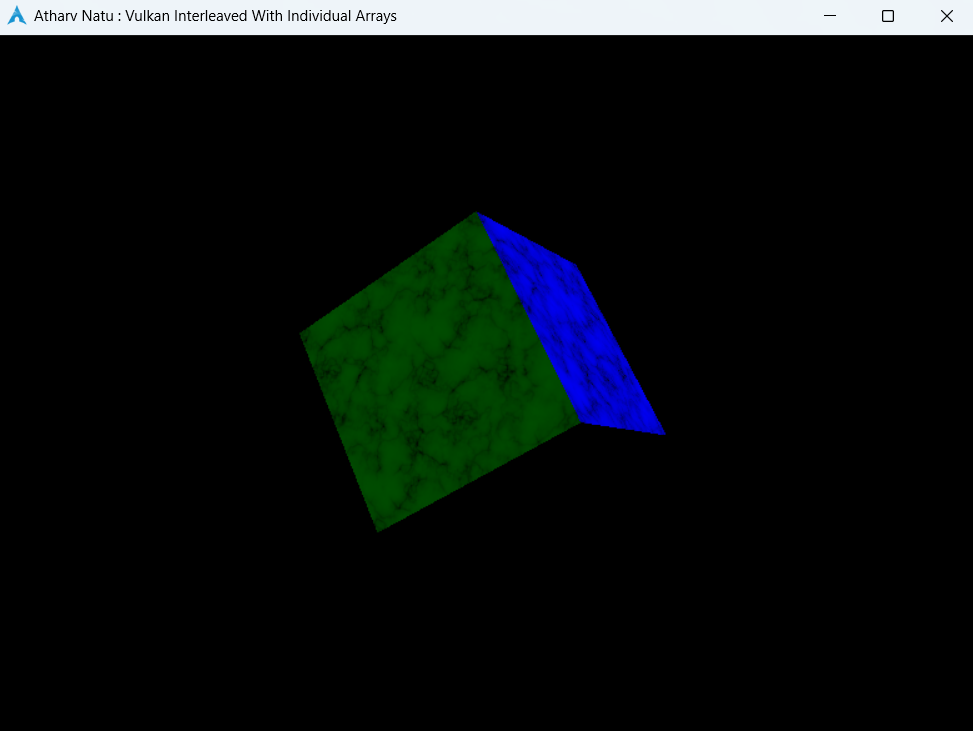
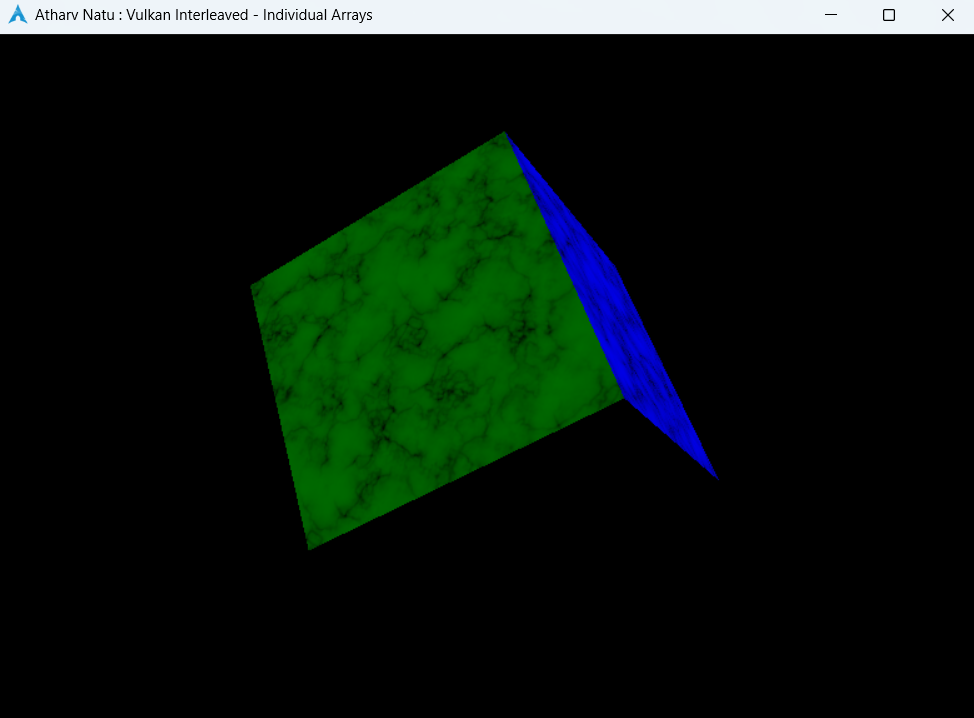
Vulkan-Win32: Removed Scaling From Interleaved

diff --git a/01-Vulkan/01-Windows/14-Interleaved/01-IndividualArrays/Vk.cpp b/01-Vulkan/01-Windows/14-Interleaved/01-IndividualArrays/Vk.cpp
@@ -4578,21 +4578,19 @@ VkResult updateUniformBuffer(void)
 
     //! Update Matrices
     glm::mat4 translationMatrix = glm::mat4(1.0f);
-    glm::mat4 scaleMatrix = glm::mat4(1.0f);
     glm::mat4 rotationMatrix_x = glm::mat4(1.0f);
     glm::mat4 rotationMatrix_y = glm::mat4(1.0f);
     glm::mat4 rotationMatrix_z = glm::mat4(1.0f);
     glm::mat4 rotationMatrix = glm::mat4(1.0f);
 
     translationMatrix = glm::translate(glm::mat4(1.0f), glm::vec3(0.0f, 0.0f, -6.0f));
-    scaleMatrix = glm::scale(glm::mat4(1.0f), glm::vec3(0.75f, 0.75f, 0.75f));
     rotationMatrix_x = glm::rotate(glm::mat4(1.0f), glm::radians(fAngle), glm::vec3(1.0f, 0.0f, 0.0f));
     rotationMatrix_y = glm::rotate(glm::mat4(1.0f), glm::radians(fAngle), glm::vec3(0.0f, 1.0f, 0.0f));
     rotationMatrix_z = glm::rotate(glm::mat4(1.0f), glm::radians(fAngle), glm::vec3(0.0f, 0.0f, 1.0f));
     rotationMatrix = rotationMatrix_x * rotationMatrix_y * rotationMatrix_z;
 
     host_uniformData.modelMatrix = glm::mat4(1.0f);
-    host_uniformData.modelMatrix = translationMatrix * scaleMatrix * rotationMatrix;
+    host_uniformData.modelMatrix = translationMatrix * rotationMatrix;
     host_uniformData.viewMatrix = glm::mat4(1.0f);
     
     glm::mat4 perspectiveProjectionMatrix = glm::mat4(1.0f);

diff --git a/01-Vulkan/01-Windows/14-Interleaved/02-InterleavedArray/Vk.cpp b/01-Vulkan/01-Windows/14-Interleaved/02-InterleavedArray/Vk.cpp
@@ -4127,21 +4127,19 @@ VkResult updateUniformBuffer(void)
 
     //! Update Matrices
     glm::mat4 translationMatrix = glm::mat4(1.0f);
-    glm::mat4 scaleMatrix = glm::mat4(1.0f);
     glm::mat4 rotationMatrix_x = glm::mat4(1.0f);
     glm::mat4 rotationMatrix_y = glm::mat4(1.0f);
     glm::mat4 rotationMatrix_z = glm::mat4(1.0f);
     glm::mat4 rotationMatrix = glm::mat4(1.0f);
 
     translationMatrix = glm::translate(glm::mat4(1.0f), glm::vec3(0.0f, 0.0f, -6.0f));
-    scaleMatrix = glm::scale(glm::mat4(1.0f), glm::vec3(0.75f, 0.75f, 0.75f));
     rotationMatrix_x = glm::rotate(glm::mat4(1.0f), glm::radians(fAngle), glm::vec3(1.0f, 0.0f, 0.0f));
     rotationMatrix_y = glm::rotate(glm::mat4(1.0f), glm::radians(fAngle), glm::vec3(0.0f, 1.0f, 0.0f));
     rotationMatrix_z = glm::rotate(glm::mat4(1.0f), glm::radians(fAngle), glm::vec3(0.0f, 0.0f, 1.0f));
     rotationMatrix = rotationMatrix_x * rotationMatrix_y * rotationMatrix_z;
 
     host_uniformData.modelMatrix = glm::mat4(1.0f);
-    host_uniformData.modelMatrix = translationMatrix * scaleMatrix * rotationMatrix;
+    host_uniformData.modelMatrix = translationMatrix * rotationMatrix;
     host_uniformData.viewMatrix = glm::mat4(1.0f);
     
     glm::mat4 perspectiveProjectionMatrix = glm::mat4(1.0f);
